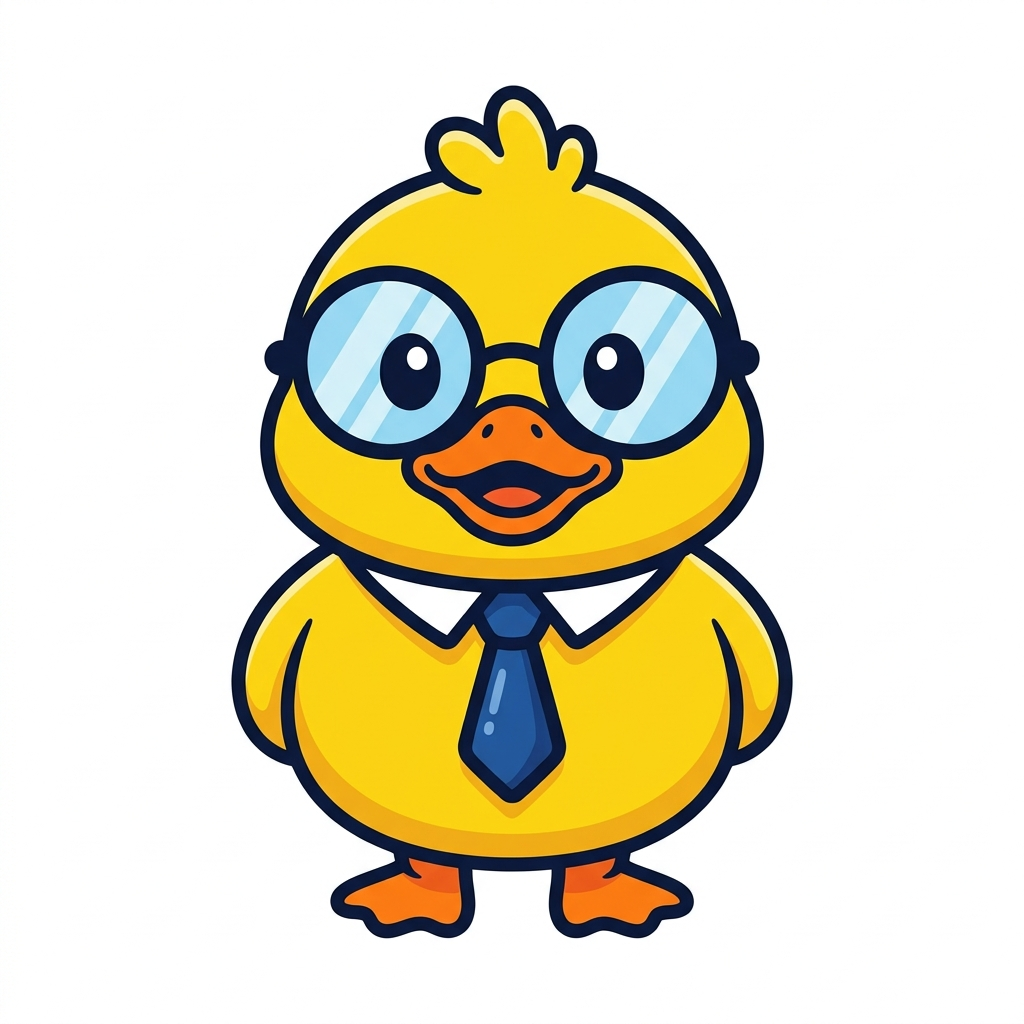
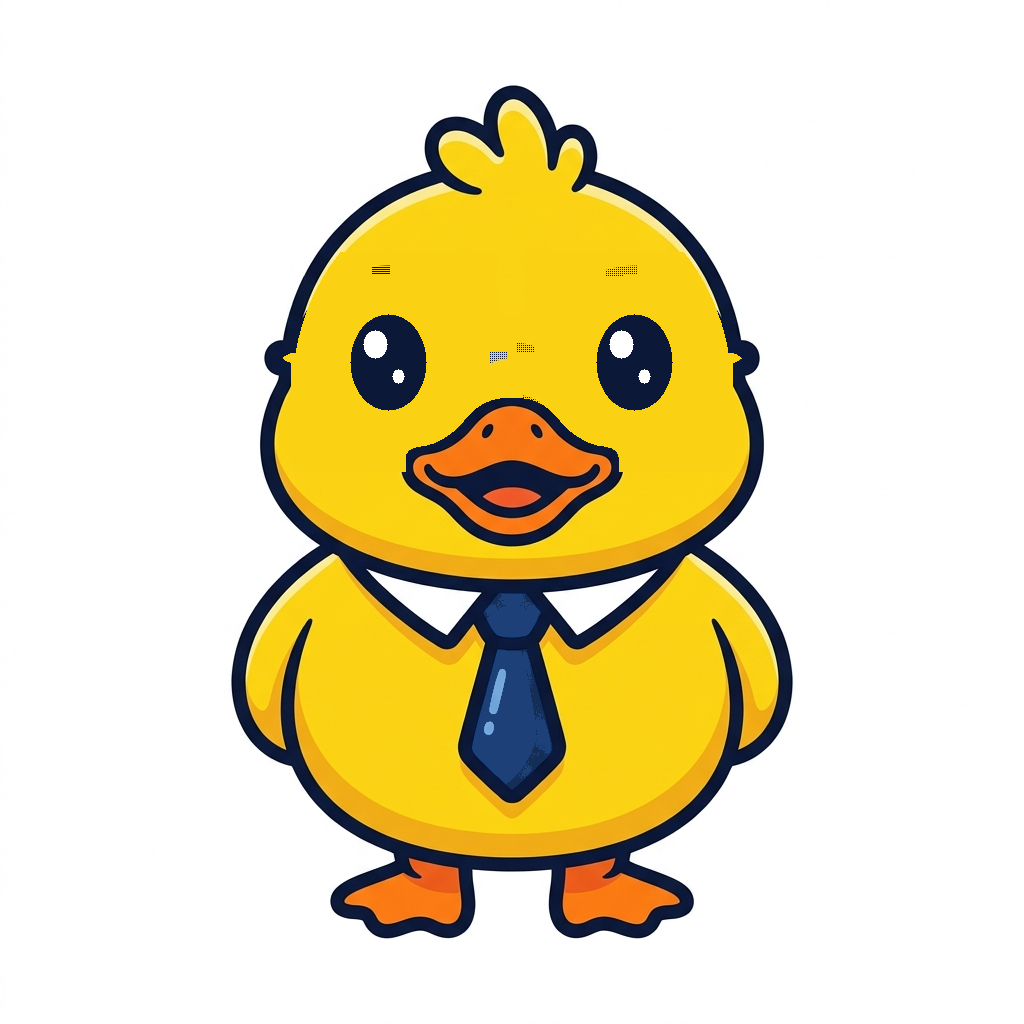
Base calcada sin gafas y ajustada al design system
- Cirugía raster: elimina las gafas (barrido de la zona de lentes con
  protección de silueta y pico), redibuja ojos grandes estilo sticker
  y recolorea la corbata al azul profundo del kit (#1E4078)
- calcar.py: limpieza de islas (conserva solo la figura principal)
- Regenera svg/ y png/ de dr-cuack-base

Claude-Session: https://claude.ai/code/session_011MLzH6x1RhdqBwSTx6CaFY

Changed region(s): [[0.2812, 0.25, 0.7188, 0.4688], [0.4375, 0.5938, 0.5312, 0.7812]]

diff --git a/assets/personaje/calcado/calcar.py b/assets/personaje/calcado/calcar.py
@@ -63,6 +63,31 @@ def quitar_fondo(src, dst, tol=40, dilatar=5):
             if 0 <= nx < w and 0 <= ny < h and not seen[ny][nx] and blanco(nx, ny):
                 seen[ny][nx] = True
                 q.append((nx, ny))
+    # limpiar islas: conservar solo la figura principal
+    comp = [[0]*w for _ in range(h)]
+    sizes = {}
+    cid = 0
+    for yy in range(h):
+        for xx in range(w):
+            if not seen[yy][xx] and comp[yy][xx] == 0:
+                cid += 1
+                qq = deque([(xx, yy)])
+                comp[yy][xx] = cid
+                n = 0
+                while qq:
+                    cx, cy = qq.popleft()
+                    n += 1
+                    for dx, dy in ((1,0),(-1,0),(0,1),(0,-1)):
+                        nx, ny = cx+dx, cy+dy
+                        if 0 <= nx < w and 0 <= ny < h and not seen[ny][nx] and comp[ny][nx] == 0:
+                            comp[ny][nx] = cid
+                            qq.append((nx, ny))
+                sizes[cid] = n
+    main = max(sizes, key=sizes.get)
+    for yy in range(h):
+        for xx in range(w):
+            if not seen[yy][xx] and comp[yy][xx] != main:
+                seen[yy][xx] = True
     for _ in range(dilatar):
         grow = []
         for y in range(h):
